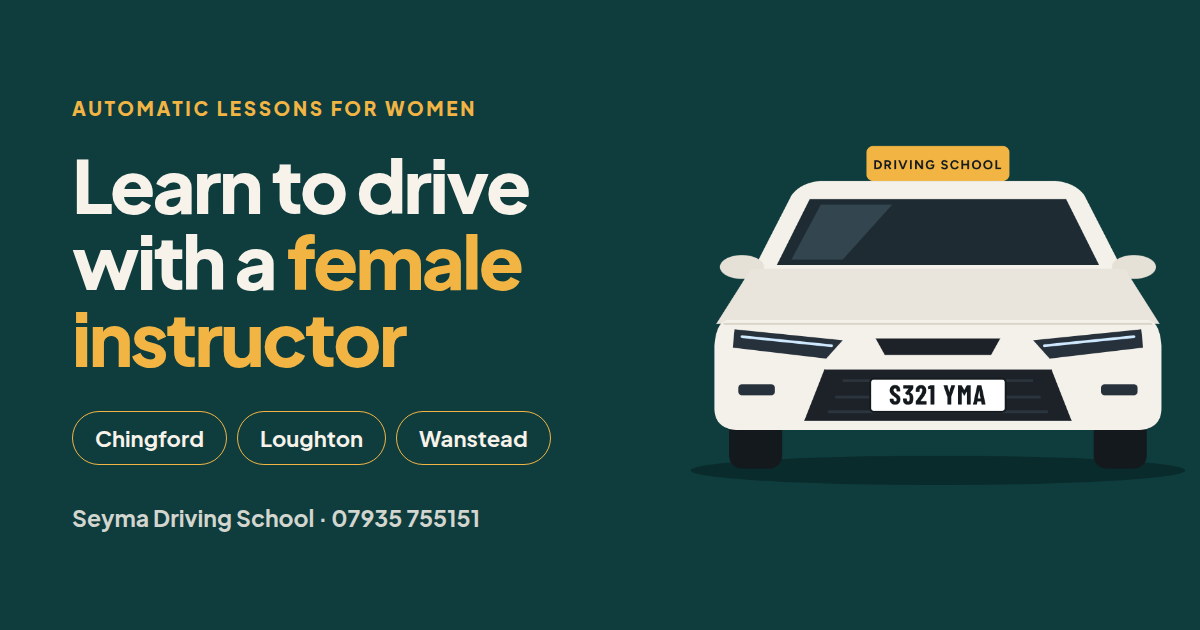
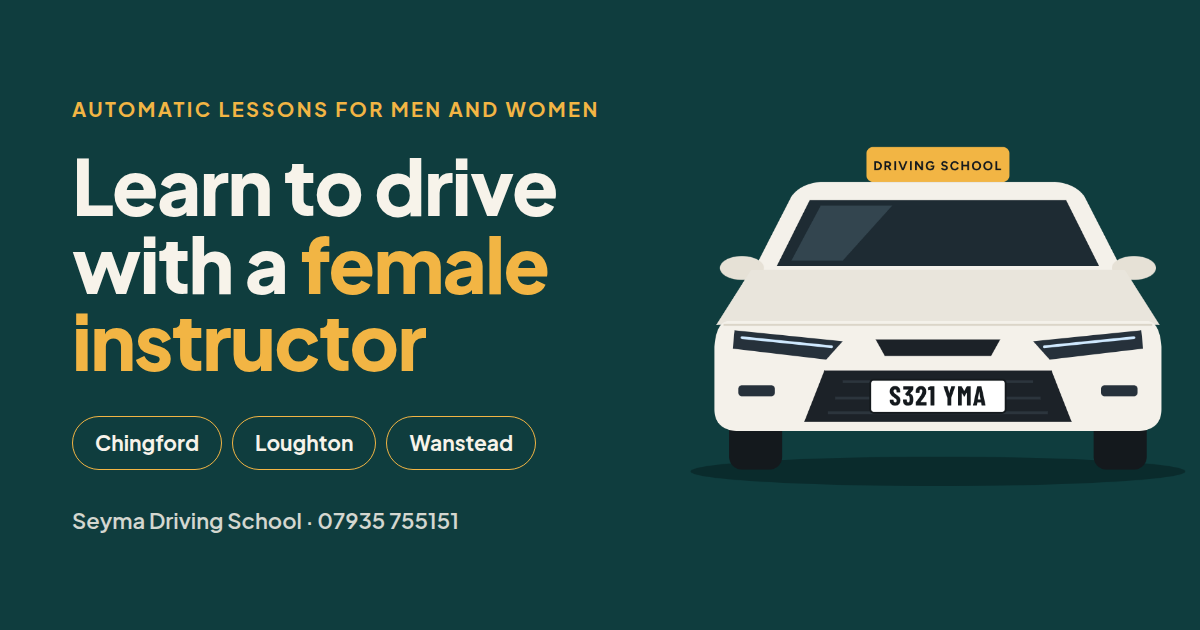
Lessons for men and women; add Edmonton and a no-space FAQ
Seyma teaches both men and women, so every "for women" line (titles, meta
and share text, hero eyebrow, instructor card, footers, JSON-LD, preview
image) now says "for men and women", in English and Turkish. Adds Edmonton
(N9, N18) to the areas covered and an FAQ: if she has no space she refers
you to another instructor.

diff --git a/site/tr/index.html b/site/tr/index.html
@@ -3,8 +3,8 @@
 <head>
 <meta charset="utf-8">
 <meta name="viewport" content="width=device-width, initial-scale=1">
-<title>Kadınlar için otomatik vites direksiyon dersleri | Seyma Driving School</title>
-<meta name="description" content="Chingford, Loughton ve Wanstead'de kadınlara özel otomatik vites direksiyon dersleri. Eğitmeniniz Şeyma, tam yetkili kadın ADI. Saati £40. Dersler Türkçe veya İngilizce.">
+<title>Kadın eğitmenle otomatik vites direksiyon dersleri | Seyma Driving School</title>
+<meta name="description" content="Chingford, Loughton ve Wanstead'de kadın ve erkekler için otomatik vites direksiyon dersleri. Eğitmeniniz Şeyma, tam yetkili kadın ADI. Saati £40. Dersler Türkçe veya İngilizce.">
 <link rel="canonical" href="https://seymadrivingschool.com/tr/">
 <link rel="alternate" hreflang="en-GB" href="https://seymadrivingschool.com/">
 <link rel="alternate" hreflang="tr" href="https://seymadrivingschool.com/tr/">
@@ -15,7 +15,7 @@
 <meta property="og:locale" content="tr_TR">
 <meta property="og:site_name" content="Seyma Driving School">
 <meta property="og:title" content="Kadın eğitmenle araba kullanmayı öğrenin | Seyma Driving School">
-<meta property="og:description" content="Chingford, Loughton ve Wanstead'de kadınlara özel otomatik vites direksiyon dersleri. Tam yetkili ADI, her derste aynı eğitmen.">
+<meta property="og:description" content="Chingford, Loughton ve Wanstead'de kadın ve erkekler için otomatik vites direksiyon dersleri. Tam yetkili ADI, her derste aynı eğitmen.">
 <meta property="og:url" content="https://seymadrivingschool.com/tr/">
 <meta property="og:image" content="https://seymadrivingschool.com/og-image.png">
 <meta property="og:image:width" content="1200">
@@ -30,12 +30,12 @@
   "@context": "https://schema.org",
   "@type": "DrivingSchool",
   "name": "Seyma Driving School",
-  "description": "Tam yetkili, DVSA onaylı kadın sürüş eğitmeniyle kadınlara özel otomatik vites direksiyon dersleri.",
+  "description": "Tam yetkili, DVSA onaylı kadın sürüş eğitmeniyle kadın ve erkekler için otomatik vites direksiyon dersleri.",
   "url": "https://seymadrivingschool.com/tr/",
   "image": "https://seymadrivingschool.com/og-image.png",
   "telephone": "+447935755151",
   "email": "info@seymadrivingschool.com",
-  "areaServed": ["Chingford", "Loughton", "Wanstead", "Woodford", "South Woodford", "Buckhurst Hill", "Walthamstow", "Highams Park"],
+  "areaServed": ["Chingford", "Loughton", "Wanstead", "Woodford", "South Woodford", "Buckhurst Hill", "Walthamstow", "Highams Park", "Edmonton"],
   "priceRange": "Saati £40",
   "knowsLanguage": ["en", "tr"]
 }
@@ -101,7 +101,7 @@
     <div class="wrap">
       <div class="hero-grid">
         <div class="hero-copy">
-          <p class="eyebrow">Kadınlara özel otomatik vites dersleri</p>
+          <p class="eyebrow">Kadın ve erkekler için otomatik vites dersleri</p>
           <h1><span>Kadın eğitmenle</span> araba kullanmayı öğrenin</h1>
           <p class="lead">DVSA onaylı, tam yetkili sürüş eğitmeni (ADI) Şeyma ile otomatik vites direksiyon dersleri. İlk dersinizden sınav gününe kadar her derste aynı eğitmen. Dersler Türkçe veya İngilizce yapılır.</p>
           <p class="actions">
@@ -141,7 +141,7 @@
         <article class="card">
           <span class="icon-badge"><svg class="icon"><use href="#i-user"/></svg></span>
           <h3>Kadın eğitmen</h3>
-          <p>Kadınlar için, bir kadın eğitmenden dersler. İlk günden itibaren yanında rahat ettiğiniz biriyle öğrenin.</p>
+          <p>Şeyma hem kadınlara hem erkeklere ders verir. Yeni öğrenci alamıyorsa sizi başka bir eğitmene yönlendirir.</p>
         </article>
         <article class="card">
           <span class="icon-badge"><svg class="icon"><use href="#i-repeat"/></svg></span>
@@ -414,8 +414,9 @@
           <li>Buckhurst Hill</li>
           <li>Walthamstow</li>
           <li>Highams Park</li>
+          <li>Edmonton</li>
         </ul>
-        <p>Posta kodları: E4, E11, E17, E18, IG8, IG9 ve IG10.</p>
+        <p>Posta kodları: E4, E11, E17, E18, IG8, IG9, IG10, N9 ve N18.</p>
       </div>
     </div>
   </section>
@@ -474,11 +475,15 @@
         </details>
         <details>
           <summary>Hangi bölgelere hizmet veriyorsunuz?<svg class="icon"><use href="#i-plus"/></svg></summary>
-          <p>Chingford, Loughton, Wanstead, Woodford, South Woodford, Buckhurst Hill, Walthamstow ve Highams Park. Yakınlarda oturuyorsanız mesaj gönderip sorun.</p>
+          <p>Chingford, Loughton, Wanstead, Woodford, South Woodford, Buckhurst Hill, Walthamstow, Highams Park ve Edmonton. Yakınlarda oturuyorsanız mesaj gönderip sorun.</p>
         </details>
         <details>
           <summary>Öğrencileri hangi sınav merkezlerine hazırlıyorsunuz?<svg class="icon"><use href="#i-plus"/></svg></summary>
           <p>Chingford, Loughton ve Wanstead direksiyon sınav merkezlerine.</p>
+        </details>
+        <details>
+          <summary>Şeyma'nın yeni öğrenci için yeri yoksa ne olur?<svg class="icon"><use href="#i-plus"/></svg></summary>
+          <p>Sizi başka bir eğitmene yönlendirir.</p>
         </details>
         <details>
           <summary>Aramam cevaplanmazsa ne yapmalıyım?<svg class="icon"><use href="#i-plus"/></svg></summary>
@@ -530,7 +535,7 @@
         <img src="../favicon.svg?v=__V__" alt="" width="36" height="36">
         <span>Seyma Driving School</span>
       </a>
-      <p>Tam yetkili kadın eğitmenle (ADI), kadınlara özel otomatik vites direksiyon dersleri.</p>
+      <p>Tam yetkili kadın eğitmenle (ADI), kadın ve erkekler için otomatik vites direksiyon dersleri.</p>
     </div>
     <div>
       <h2>Keşfedin</h2>

diff --git a/site/index.html b/site/index.html
@@ -3,8 +3,8 @@
 <head>
 <meta charset="utf-8">
 <meta name="viewport" content="width=device-width, initial-scale=1">
-<title>Automatic driving lessons for women | Seyma Driving School</title>
-<meta name="description" content="Automatic driving lessons for women in Chingford, Loughton and Wanstead with Seyma, a fully qualified female ADI. £40 per hour. Lessons in English or Turkish.">
+<title>Automatic driving lessons with a female instructor | Seyma Driving School</title>
+<meta name="description" content="Automatic driving lessons for men and women in Chingford, Loughton and Wanstead with Seyma, a fully qualified female ADI. £40 per hour. Lessons in English or Turkish.">
 <link rel="canonical" href="https://seymadrivingschool.com/">
 <link rel="alternate" hreflang="en-GB" href="https://seymadrivingschool.com/">
 <link rel="alternate" hreflang="tr" href="https://seymadrivingschool.com/tr/">
@@ -14,7 +14,7 @@
 <meta property="og:type" content="website">
 <meta property="og:site_name" content="Seyma Driving School">
 <meta property="og:title" content="Learn to drive with a female instructor | Seyma Driving School">
-<meta property="og:description" content="Automatic driving lessons for women in Chingford, Loughton and Wanstead. Fully qualified ADI, same instructor every lesson.">
+<meta property="og:description" content="Automatic driving lessons for men and women in Chingford, Loughton and Wanstead. Fully qualified ADI, same instructor every lesson.">
 <meta property="og:url" content="https://seymadrivingschool.com/">
 <meta property="og:image" content="https://seymadrivingschool.com/og-image.png">
 <meta property="og:image:width" content="1200">
@@ -28,12 +28,12 @@
   "@context": "https://schema.org",
   "@type": "DrivingSchool",
   "name": "Seyma Driving School",
-  "description": "Automatic driving lessons for women with a female, fully qualified DVSA Approved Driving Instructor.",
+  "description": "Automatic driving lessons for men and women with a female, fully qualified DVSA Approved Driving Instructor.",
   "url": "https://seymadrivingschool.com/",
   "image": "https://seymadrivingschool.com/og-image.png",
   "telephone": "+447935755151",
   "email": "info@seymadrivingschool.com",
-  "areaServed": ["Chingford", "Loughton", "Wanstead", "Woodford", "South Woodford", "Buckhurst Hill", "Walthamstow", "Highams Park"],
+  "areaServed": ["Chingford", "Loughton", "Wanstead", "Woodford", "South Woodford", "Buckhurst Hill", "Walthamstow", "Highams Park", "Edmonton"],
   "priceRange": "£40 per hour",
   "knowsLanguage": ["en", "tr"]
 }
@@ -99,7 +99,7 @@
     <div class="wrap">
       <div class="hero-grid">
         <div class="hero-copy">
-          <p class="eyebrow">Automatic lessons for women</p>
+          <p class="eyebrow">Automatic lessons for men and women</p>
           <h1>Learn to drive with a <span>female instructor</span></h1>
           <p class="lead">Automatic driving lessons with Seyma, a fully qualified DVSA Approved Driving Instructor. The same instructor at every lesson, from your first drive to test day, in English or Turkish.</p>
           <p class="actions">
@@ -139,7 +139,7 @@
         <article class="card">
           <span class="icon-badge"><svg class="icon"><use href="#i-user"/></svg></span>
           <h3>A female instructor</h3>
-          <p>Lessons for women, taught by a woman. Learn with someone you feel comfortable with from the start.</p>
+          <p>Seyma teaches both men and women. If she has no space for you, she will refer you to another instructor.</p>
         </article>
         <article class="card">
           <span class="icon-badge"><svg class="icon"><use href="#i-repeat"/></svg></span>
@@ -412,8 +412,9 @@
           <li>Buckhurst Hill</li>
           <li>Walthamstow</li>
           <li>Highams Park</li>
+          <li>Edmonton</li>
         </ul>
-        <p>Postcodes: E4, E11, E17, E18, IG8, IG9 and IG10.</p>
+        <p>Postcodes: E4, E11, E17, E18, IG8, IG9, IG10, N9 and N18.</p>
       </div>
     </div>
   </section>
@@ -472,11 +473,15 @@
         </details>
         <details>
           <summary>Which areas do you cover?<svg class="icon"><use href="#i-plus"/></svg></summary>
-          <p>Chingford, Loughton, Wanstead, Woodford, South Woodford, Buckhurst Hill, Walthamstow and Highams Park. If you live nearby, send a message and ask.</p>
+          <p>Chingford, Loughton, Wanstead, Woodford, South Woodford, Buckhurst Hill, Walthamstow, Highams Park and Edmonton. If you live nearby, send a message and ask.</p>
         </details>
         <details>
           <summary>Which test centres do you prepare pupils for?<svg class="icon"><use href="#i-plus"/></svg></summary>
           <p>The Chingford, Loughton and Wanstead driving test centres.</p>
+        </details>
+        <details>
+          <summary>What if Seyma has no space for new pupils?<svg class="icon"><use href="#i-plus"/></svg></summary>
+          <p>She will refer you to another instructor.</p>
         </details>
         <details>
           <summary>What if my call is not answered?<svg class="icon"><use href="#i-plus"/></svg></summary>
@@ -528,7 +533,7 @@
         <img src="favicon.svg?v=__V__" alt="" width="36" height="36">
         <span>Seyma Driving School</span>
       </a>
-      <p>Automatic driving lessons for women with a female, fully qualified ADI.</p>
+      <p>Automatic driving lessons for men and women with a female, fully qualified ADI.</p>
     </div>
     <div>
       <h2>Explore</h2>

diff --git a/site/tr/privacy.html b/site/tr/privacy.html
@@ -101,7 +101,7 @@
         <img src="../favicon.svg?v=__V__" alt="" width="36" height="36">
         <span>Seyma Driving School</span>
       </a>
-      <p>Tam yetkili kadın eğitmenle (ADI), kadınlara özel otomatik vites direksiyon dersleri.</p>
+      <p>Tam yetkili kadın eğitmenle (ADI), kadın ve erkekler için otomatik vites direksiyon dersleri.</p>
     </div>
     <div>
       <h2>Keşfedin</h2>

diff --git a/site/tr/show-me-tell-me.html b/site/tr/show-me-tell-me.html
@@ -190,7 +190,7 @@
         <img src="../favicon.svg?v=__V__" alt="" width="36" height="36">
         <span>Seyma Driving School</span>
       </a>
-      <p>Tam yetkili kadın eğitmenle (ADI), kadınlara özel otomatik vites direksiyon dersleri.</p>
+      <p>Tam yetkili kadın eğitmenle (ADI), kadın ve erkekler için otomatik vites direksiyon dersleri.</p>
     </div>
     <div>
       <h2>Keşfedin</h2>

diff --git a/site/show-me-tell-me.html b/site/show-me-tell-me.html
@@ -173,7 +173,7 @@
         <img src="favicon.svg?v=__V__" alt="" width="36" height="36">
         <span>Seyma Driving School</span>
       </a>
-      <p>Automatic driving lessons for women with a female, fully qualified ADI.</p>
+      <p>Automatic driving lessons for men and women with a female, fully qualified ADI.</p>
     </div>
     <div>
       <h2>Explore</h2>

diff --git a/site/privacy.html b/site/privacy.html
@@ -99,7 +99,7 @@
         <img src="favicon.svg?v=__V__" alt="" width="36" height="36">
         <span>Seyma Driving School</span>
       </a>
-      <p>Automatic driving lessons for women with a female, fully qualified ADI.</p>
+      <p>Automatic driving lessons for men and women with a female, fully qualified ADI.</p>
     </div>
     <div>
       <h2>Explore</h2>
